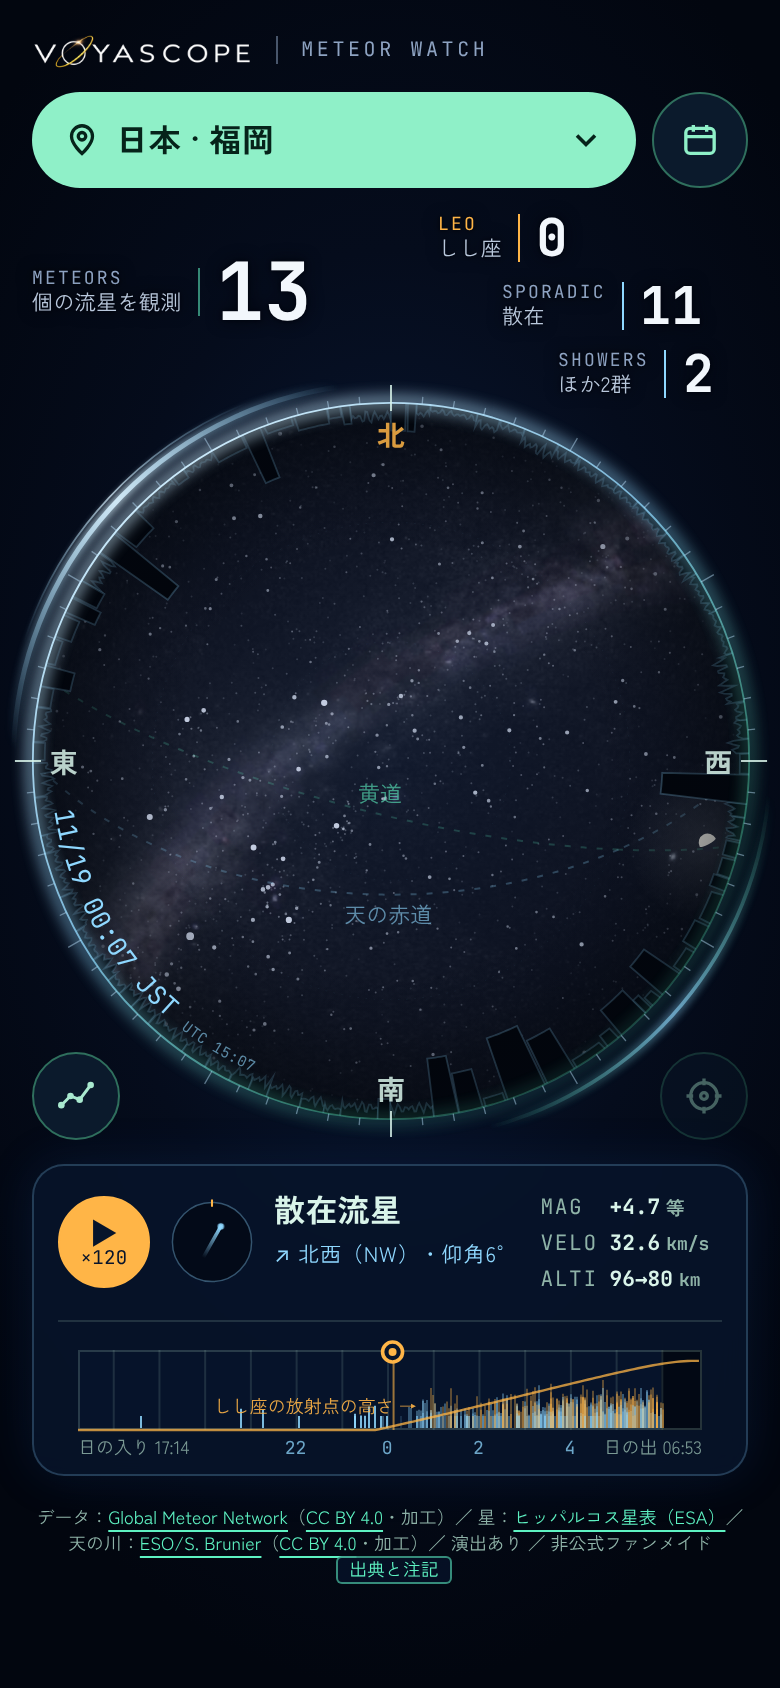
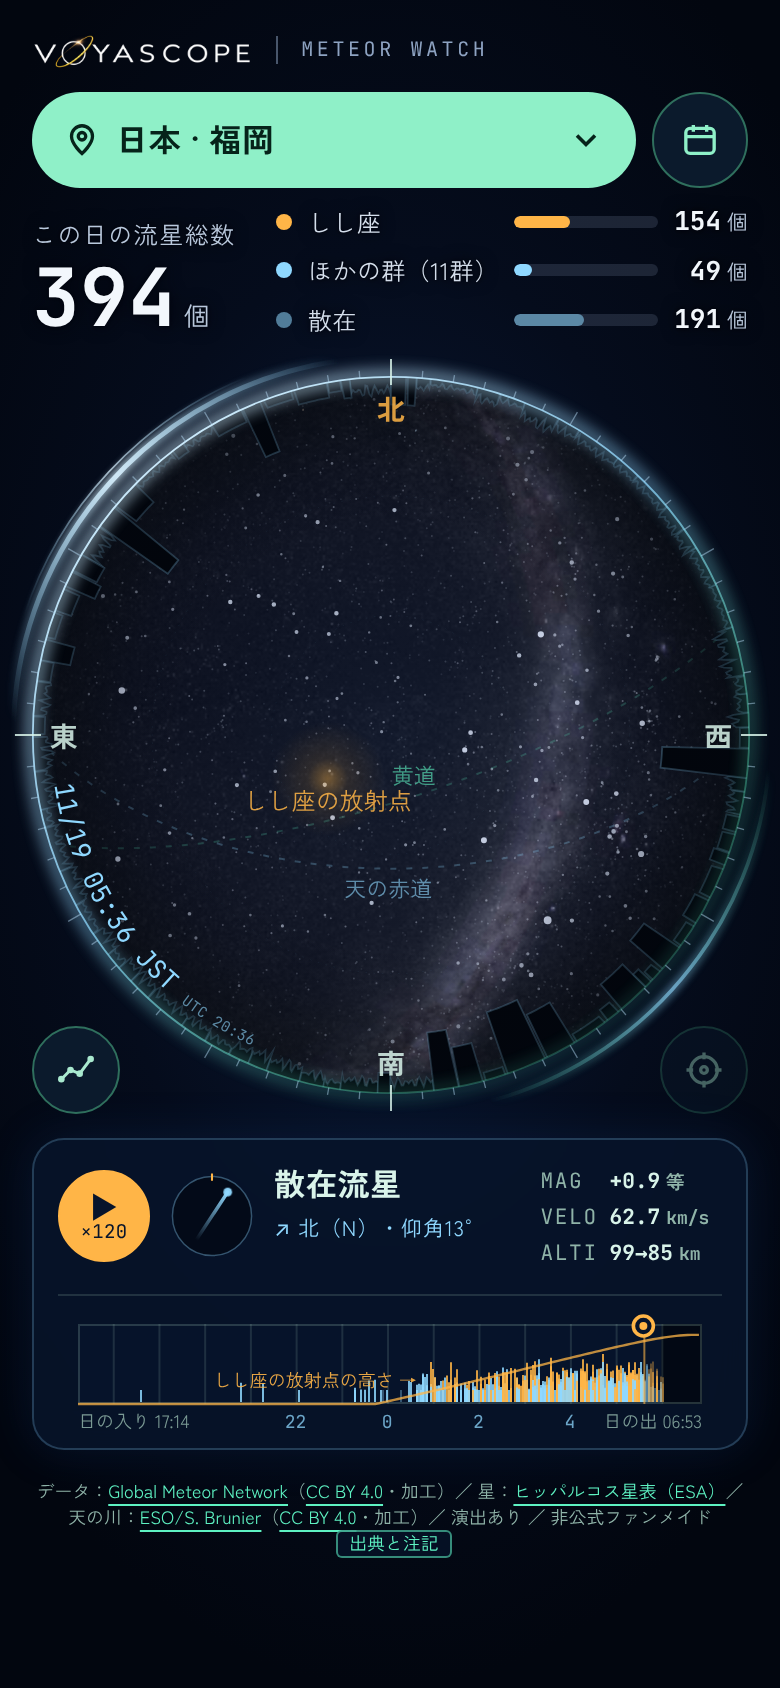
流星を眺める（見上げる）：総数を場所チップの真下に「この日の流星総数」・内訳を横棒つきの3行に
- 輪の上側に散らした計器の読みをやめた（オーナー）
- 総数：場所チップの真下（左）。「個の流星を観測」→「この日の流星総数」
- 内訳：色の点・名前・割合の横棒・個数（参考画像の形）。色は空の上の流星と同じ
- 370幅以下は字を小さく・群の数を省く（4桁でも 320幅で切れない）。統計の行は 88 → 67px

Claude-Session: https://claude.ai/code/session_01XQ4UBwH93kGsVUdewGHxjL

diff --git a/web/meteors/index.html b/web/meteors/index.html
@@ -289,17 +289,26 @@
   .corners .icon-btn { position: absolute; bottom: 0; width: 44px; height: 44px; pointer-events: auto; color: #a9e9cf; }
   #constBtn { left: 0; } #viewReset { right: 0; }
   .stats { position: absolute; left: 0; top: 0; z-index: 2; pointer-events: none; text-shadow: 0 0 8px #02060f, 0 0 2px #02060f;
-    display: flex; flex-direction: column; gap: 8px; --k: 1; }
-  /* 計器の読み：左に英字（等幅・字間広め）と日本語の2行、縦の線、大きな数字（MMX の「いまどこ」の計器と同じ形） */
-  .ro { --f: 1; display: flex; align-items: center; gap: calc(8px * var(--k) * var(--f)); white-space: nowrap; pointer-events: auto; }
-  .ro-l { display: flex; flex-direction: column; align-items: flex-start; line-height: 1.2; padding-right: calc(8px * var(--k) * var(--f)); border-right: 1.5px solid rgba(217, 244, 234, 0.55); }
-  .ro-en { font-family: var(--font-mono); font-size: calc(9px * var(--k) * var(--f)); letter-spacing: 0.12em; color: #8ea3c2; }
-  .ro-ja { font-size: calc(10.5px * var(--k) * var(--f)); letter-spacing: 0.02em; color: #b9c8dc; }
-  .ro-n { font-family: var(--font-mono); font-weight: 700; font-size: calc(26px * var(--k) * var(--f)); line-height: 1; color: #f2f7fc; letter-spacing: 0; font-variant-numeric: tabular-nums; }
-  .ro-total .ro-n { font-size: calc(40px * var(--k) * var(--f)); }
-  .ro-total .ro-l { border-right-color: var(--mint-dim); }
-  .ro-leo .ro-l { border-right-color: var(--amber); } .ro-leo .ro-en { color: var(--amber); }
-  .ro-spo .ro-l, .ro-oth .ro-l { border-right-color: var(--sky); }
+    display: flex; flex-direction: column; gap: 10px; }
+  .tot { display: flex; flex-direction: column; line-height: 1; pointer-events: auto; }
+  .tot-l { font-size: 12px; letter-spacing: 0.06em; color: #b9c8dc; }
+  .tot-n { margin-top: 6px; white-space: nowrap; }
+  .tot-n b { font-family: var(--font-mono); font-size: 40px; font-weight: 700; color: #f2f7fc; font-variant-numeric: tabular-nums; }
+  .tot-n small { margin-left: 4px; font-size: 13px; color: #b9c8dc; }
+  /* 内訳：色の点・名前・割合の横棒・個数（列をそろえるため、3行を1つのグリッドに） */
+  .brk { display: grid; grid-template-columns: 8px max-content minmax(28px, 1fr) max-content; align-items: center; column-gap: 8px; row-gap: 7px;
+    font-size: 12px; line-height: 1.35; color: #d4deeb; width: 236px; pointer-events: auto; }
+  .brk .dot { width: 8px; height: 8px; border-radius: 50%; }
+  .brk .bl { white-space: nowrap; letter-spacing: 0.02em; }
+  .brk .bar { position: relative; height: 6px; border-radius: 3px; background: rgba(142, 163, 194, 0.18); overflow: hidden; }
+  .brk .bar span { position: absolute; left: 0; top: 0; bottom: 0; width: 0; border-radius: 3px; transition: width .3s; }
+  .brk .bn { text-align: right; white-space: nowrap; }
+  .brk .bn b { font-family: var(--font-mono); font-size: 13px; font-weight: 700; color: #f2f7fc; font-variant-numeric: tabular-nums; }
+  .brk .bn small { margin-left: 3px; font-size: 10.5px; color: #b9c8dc; }
+  /* 色は空の上の流星と同じ（しし座＝琥珀・ほかの群と散在＝水色。散在は少し淡く） */
+  .dot.leo, .bar.leo span { background: var(--amber); }
+  .dot.oth, .bar.oth span { background: var(--sky); }
+  .dot.spo, .bar.spo span { background: rgba(143, 216, 255, 0.55); }
   @media (min-width: 900px) and (min-aspect-ratio: 1/1) {
     .top { flex-direction: row; align-items: center; gap: 24px; }
     .brandbar { flex: 1 1 auto; }
@@ -315,11 +324,17 @@
     .dome { display: block; flex: none; margin-top: 8px; overflow-x: clip; overflow-y: visible; margin-left: -16px; margin-right: -16px; padding: 0 16px; }
     .dome-box { position: absolute; }
     .corners { left: 16px !important; right: 16px !important; }
-    .stats { inset: 0; display: block; pointer-events: none; }
-    .stats .ro { position: absolute; }
+    .stats { left: 16px; right: 16px; flex-direction: row; justify-content: space-between; align-items: flex-end; gap: 12px; }
+    .brk { width: auto; flex: 0 1 236px; min-width: 0; }
     .panel-wrap { margin-top: 12px; }
     .time { margin-top: 4px; }
     .rim-log { display: none; } /* METEOR WATCH は上の行に出したので、輪のまわりからは外す */
+  }
+  @media (max-width: 370px) {
+    /* 狭い画面（320〜370幅）：4桁でも内訳が切れないように、字を少し小さく・群の数は省く */
+    .tot-l { font-size: 11px; } .tot-n b { font-size: 32px; }
+    .brk { font-size: 11px; column-gap: 6px; } .brk .bn b { font-size: 12px; }
+    .brk .grp { display: none; }
   }
 </style>
 </head>
@@ -347,12 +362,14 @@
   </header>
 
   <div class="dome" id="dome">
-    <!-- 統計：計器の読み（左に英字と日本語の2行・縦線・大きな数字）を、輪の上側に沿って散らして置く（2026-11-28 オーナー：MMX の計器の形）。位置は layout() で -->
+    <!-- 統計：左に この日の流星総数（場所チップの真下）、右に内訳（色の点・名前・割合の横棒・個数）。2026-11-28 オーナーの参考画像 -->
     <div class="stats" id="stats">
-      <div class="ro ro-total" id="roTotal" title="日本のまわりで GMN のカメラが記録した流星（日没から いまの時刻まで）"><span class="ro-l"><span class="ro-en">METEORS</span><span class="ro-ja">個の流星を観測</span></span><b class="ro-n" id="count">0</b></div>
-      <div class="ro ro-leo" id="roLeo"><span class="ro-l"><span class="ro-en">LEO</span><span class="ro-ja">しし座</span></span><b class="ro-n" id="cLeo">0</b></div>
-      <div class="ro ro-spo" id="roSpo"><span class="ro-l"><span class="ro-en">SPORADIC</span><span class="ro-ja">散在</span></span><b class="ro-n" id="cSpo">0</b></div>
-      <div class="ro ro-oth" id="roOth"><span class="ro-l"><span class="ro-en">SHOWERS</span><span class="ro-ja" id="cOthJa">ほかの群</span></span><b class="ro-n" id="cOth">0</b></div>
+      <div class="tot" id="roTotal" title="日本のまわりで GMN のカメラが記録した流星（日没から いまの時刻まで）"><span class="tot-l">この日の流星総数</span><span class="tot-n"><b id="count">0</b><small>個</small></span></div>
+      <div class="brk" aria-label="内訳">
+        <i class="dot leo"></i><span class="bl">しし座</span><span class="bar leo"><span id="bLeo"></span></span><span class="bn"><b id="cLeo">0</b><small>個</small></span>
+        <i class="dot oth"></i><span class="bl" id="cOthJa">ほかの群</span><span class="bar oth"><span id="bOth"></span></span><span class="bn"><b id="cOth">0</b><small>個</small></span>
+        <i class="dot spo"></i><span class="bl">散在</span><span class="bar spo"><span id="bSpo"></span></span><span class="bn"><b id="cSpo">0</b><small>個</small></span>
+      </div>
     </div>
     <div class="dome-box" id="domeBox">
       <canvas id="sky" aria-label="見上げた空の魚眼の図。はじめは中心が真上、円のふちが地平線、北が上、東が左。スワイプで見る方向を変えられる"></canvas>
@@ -712,32 +729,6 @@ function prepare() {
 // ---------- 魚眼 ----------
 const cornersEl = document.getElementById('corners'), domeEl = document.getElementById('dome'), boxEl = document.getElementById('domeBox'), sky = document.getElementById('sky'), ctx = sky.getContext('2d');
 let S = 300, DPR = Math.min(devicePixelRatio || 1, 3), /* スマホの多くは 3倍。2倍で止めるとにじむ（2026-11-22 オーナー「ファジー」） */ cx = 0, cy = 0, R = 0;
-// 統計の読みを、輪の上側に沿って散らして置く（スマホ）。数字は 390 幅の見本の大きさ（D＝380）を基準に、画面の幅で伸び縮み。
-// 位置は輪の中心からの x（右が正）と、読みの下端の高さ y（上が正）。輪の外径＋余白（196）より外に、左下・右下の角が来るように
-const RO_POS = { roTotal: { right: -10, y: 214 }, roLeo: { x: 24, y: 248 }, roSpo: { x: 56, y: 214 }, roOth: { x: 84, y: 180 } };
-function placeStats(D, statsH) {
-  const st = document.getElementById('stats'), k = D / 380, W = domeEl.clientWidth, cxp = W / 2, cyp = statsH + D / 2;
-  st.style.setProperty('--k', k.toFixed(3));
-  for (const [id, q] of Object.entries(RO_POS)) {
-    const el = document.getElementById(id), h = el.offsetHeight;
-    el.style.top = (cyp - q.y * k - h) + 'px';
-    if (q.right != null) { el.style.left = '16px'; el.style.right = ''; statsBoxTotal = cxp + q.right * k - 16; }
-    else { el.style.left = (cxp + q.x * k) + 'px'; el.style.right = ''; }
-  }
-  statsBox = { W, totalMax: statsBoxTotal }; fitStats();
-}
-let statsBoxTotal = 0;
-// 桁が増えて（ヨーロッパの夜の終わりは 1,989・散在 1,063）画面の端や輪の手前の線を越えるときだけ、その読みの字を縮める
-let statsBox = null, statsSig = '';
-function fitStats() {
-  if (!statsBox) return;
-  for (const id of Object.keys(RO_POS)) {
-    const el = document.getElementById(id); el.style.setProperty('--f', 1);
-    const lim = id === 'roTotal' ? statsBox.totalMax : statsBox.W - 8 - parseFloat(el.style.left), w = el.scrollWidth;
-    if (w > lim) el.style.setProperty('--f', (lim / w * 0.98).toFixed(3));
-  }
-}
-function clearStats() { statsBox = null; for (const id of Object.keys(RO_POS)) { const e = document.getElementById(id); Object.assign(e.style, { top: '', left: '', right: '' }); e.style.setProperty('--f', 1); } }
 // 光の輪（外周のぼかし）の外径。箱の大きさ S に対する直径の割合（輪は半径 0.44・ぼかしは約 0.467）
 const OUTER = 0.934;
 function layout() {
@@ -747,14 +738,13 @@ function layout() {
     // タブレットや横向きのように高さが足りないときだけ抑える
     const D = Math.floor(Math.min(innerWidth - 10, 560, Math.max(260, innerHeight - 200)));
     S = Math.round(D / OUTER);
-    const inset = (S - D) / 2, statsH = Math.round(88 * D / 380); // 統計を輪の上側に沿って置くぶんの高さ
+    const inset = (S - D) / 2, statsH = document.getElementById('stats').offsetHeight + 8; // 統計（総数・内訳）の行の下に光の輪
     domeEl.style.height = (statsH + D) + 'px';
     boxEl.style.left = `calc(50% - ${S / 2}px)`; boxEl.style.top = (statsH - inset) + 'px';
     // 四隅のボタン：左右は外の余白（16px）にそろえ、下はドームの外径の下端に
     cornersEl.style.top = statsH + 'px'; cornersEl.style.height = D + 'px';
-    placeStats(D, statsH);
   } else {
-    domeEl.style.height = ''; boxEl.style.left = ''; boxEl.style.top = ''; clearStats();
+    domeEl.style.height = ''; boxEl.style.left = ''; boxEl.style.top = '';
     S = Math.max(160, Math.floor(Math.min(r.width, r.height)));
   }
   boxEl.style.width = S + 'px'; boxEl.style.height = S + 'px';
@@ -1170,9 +1160,9 @@ function updateCount() {
   const other = n - leo - sp;
   document.getElementById('count').textContent = n;
   document.getElementById('cLeo').textContent = leo; document.getElementById('cSpo').textContent = sp; document.getElementById('cOth').textContent = other;
-  document.getElementById('cOthJa').textContent = groups.size ? `ほか${groups.size}群` : 'ほかの群';
-  const sig = [n, leo, sp, other].map(v => String(v).length).join() + groups.size; // 桁が変わったときだけ収まりを見直す
-  if (sig !== statsSig) { statsSig = sig; fitStats(); }
+  document.getElementById('cOthJa').innerHTML = groups.size ? `ほかの群<span class="grp">（${groups.size}群）</span>` : 'ほかの群';
+  // 横棒：総数に対する割合
+  for (const [id, v] of [['bLeo', leo], ['bOth', other], ['bSpo', sp]]) document.getElementById(id).style.width = (n ? 100 * v / n : 0).toFixed(1) + '%';
 }
 // 流星群の名前：英名と番号は IAU 流星データセンターの一覧（https://www.ta3.sk/IAUC22DB/MDC2022/Roje/roje_lista.php 2026-11-21 確認）。
 // 日本語名：国立天文台「流星群の和名一覧（略符順）」（https://www.nao.ac.jp/new-info/meteor/table-code.html 2026-11-05 更新・2026-11-21 確認。C43）。

diff --git a/docs/changelog.md b/docs/changelog.md
@@ -17,6 +17,7 @@
   - ドームとカードのあいだを 12px に。390×664 で再生ボタンの下端 616px・群名 589px（最初の画面に入る）
   - 押せるところは 44px 以上（ロゴ・「出典と注記」は押せる範囲を広げた）。出典の帯の文中のリンクは文の一部なので小さいまま
   - オーナーの手直し：ロゴを大きく（スマホ 15 → 19px・PC 18 → 22px の高さ）、ロゴの右に「| METEOR WATCH」。統計は MMX の計器の読みの形（左に英字と日本語の2行・縦の線・大きな数字）にして、輪の上側に沿って散らして置く：左に総数（METEORS／個の流星を観測、40px）、右に しし座（LEO・琥珀の線）→ 散在（SPORADIC）→ ほかの群（SHOWERS・ほか〇群）を輪に沿って右下へ（数字 12 → 26px）。位置は輪の中心からの座標で決め、どの読みも光の輪の外径より外（390幅で輪の外径190px に対し 199px 以上）。桁が増えて画面の端を越えるときだけ、その読みの字を縮める（ヨーロッパの夜の終わり 1,989・散在 1,063 でも 320幅で収まる）。散在を ほかの群 より上にしたのは、散在のほうが桁が多く（最大 1,063）、輪に沿った下の段ほど横の幅が狭いため。上の行が 60 → 88px になり、390×664 で再生ボタンの下端 644px・群名 617px
+  - オーナーの手直し（2回目）：輪の上側に散らした計器の読みはやめた（右側が野暮ったい）。総数を場所チップの真下（左）に、名前を「個の流星を観測」→「この日の流星総数」（上に小さく・数字 40px と「個」）。右は参考画像の形の内訳：色の点・名前・割合の横棒（総数に対する割合）・個数（3行を1つのグリッドにして列をそろえる）。色は空の上の流星と同じ（しし座＝琥珀・ほかの群＝水色・散在＝淡い水色。参考画像の灰色にはしていない）。370幅以下は字を少し小さくし「（〇群）」を省く（ヨーロッパの夜の終わり 1,989・散在 1,063 でも 320幅で切れない）。統計の行は 67px（前の 88px から詰めた）。390×664 で再生ボタンの下端 631px・群名 604px
   - 画面：`docs/screenshots/meteors/ui-step1-390x844.png`・`ui-step1-390x664.png`
 
 ## 2026-11-24
